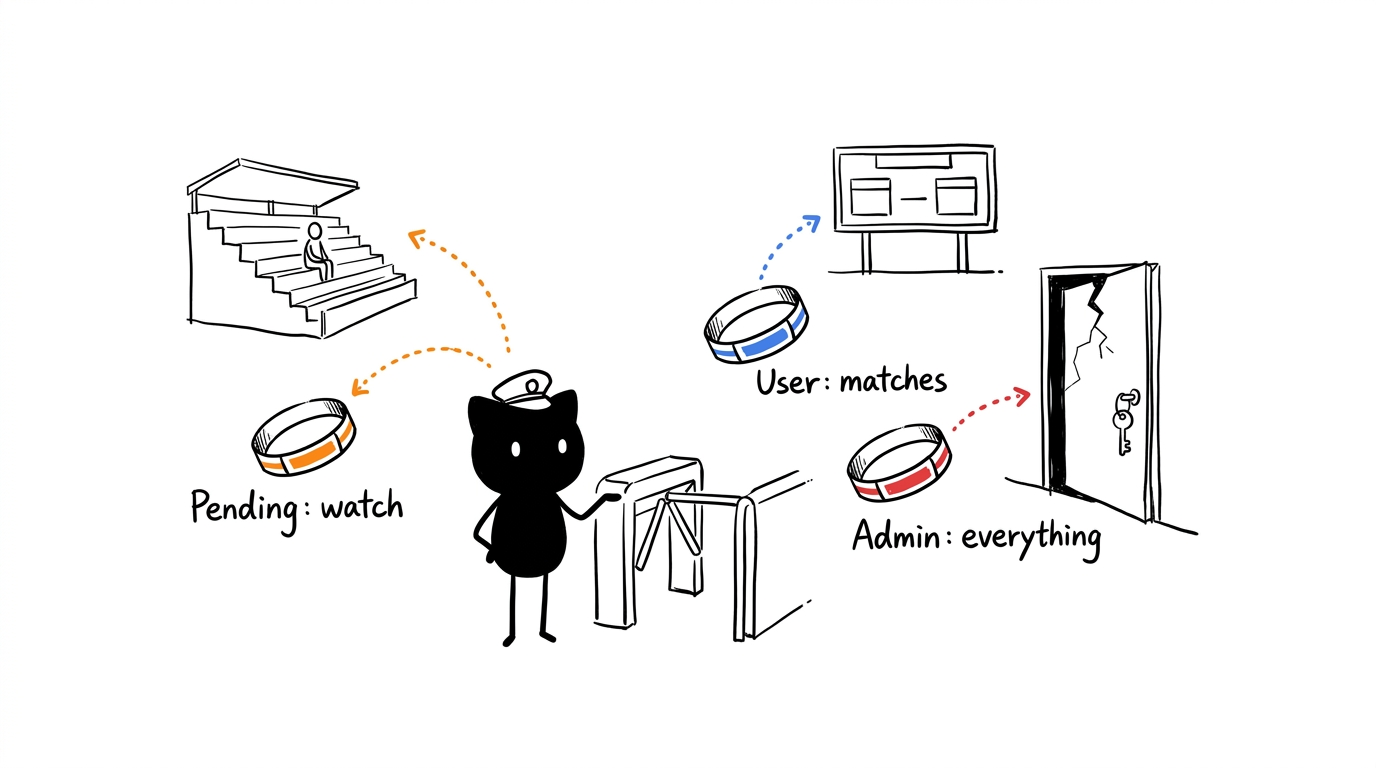
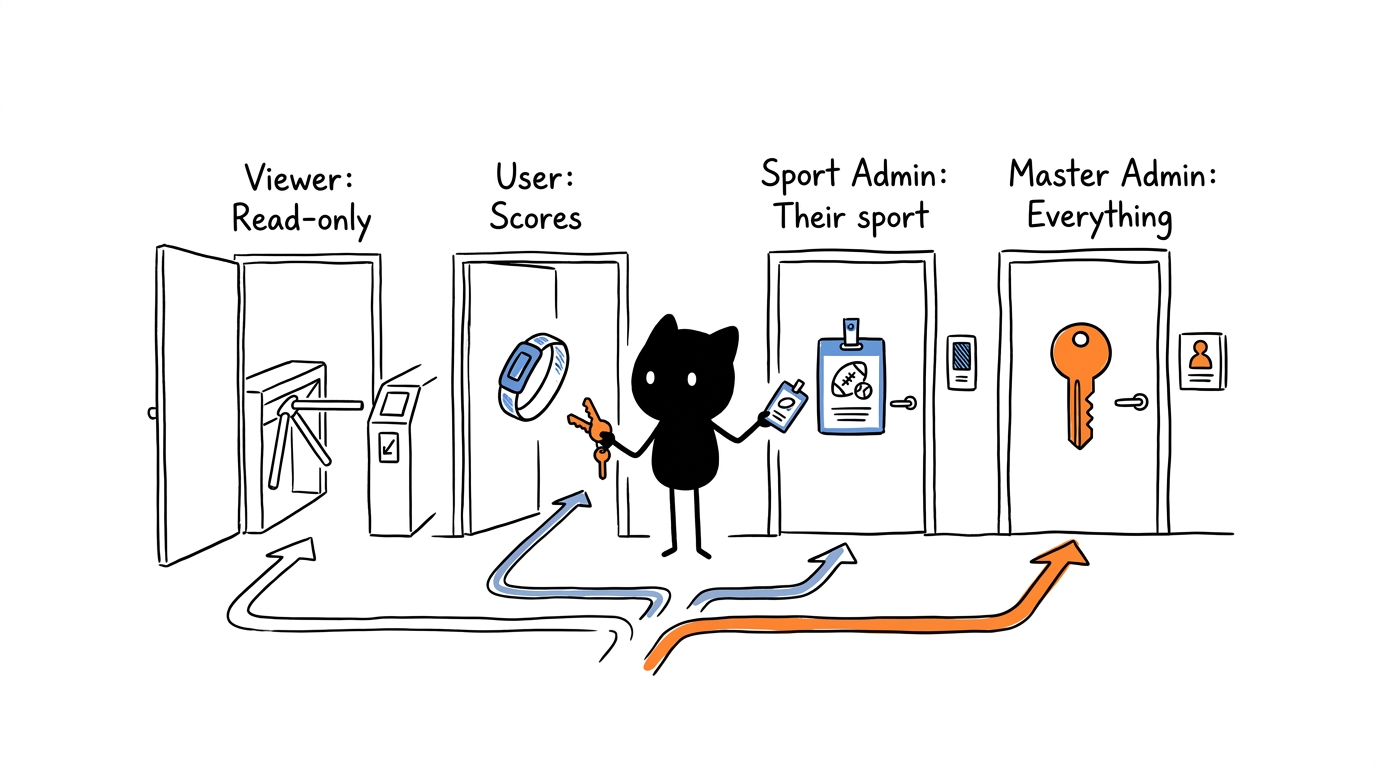
docs: illustrations and doc gaps for multi-sport app (#63)

Changed region(s): [[0.0938, 0.1875, 0.9062, 0.875]]

diff --git a/docs/guide.md b/docs/guide.md
@@ -52,6 +52,8 @@ On a phone, the header is a single line pinned to the top: on the left the tourn
 
 ## Tournaments
 
+![Multiple tournaments and device memory](assets/illustrations/18-varios-torneios.jpg)
+
 Several tournaments can run at the same time, each with its own sport, teams, schedule, results and single matches. The players database and the History are shared by all of them.
 
 - **🏆 Active Tournaments** (on the 🏠 Dashboard) lists every tournament that has not been finished. Tap a card, or **👁 View Tournament**, to follow it; the whole app then shows that tournament. Each device remembers the last tournament it viewed.
@@ -64,7 +66,10 @@ These steps are done by an **admin** of the tournament's sport (or the Master Ad
 
 1. **Players** (Manage → 👤 Players): create each player and give them 0 to 5 stars in six attributes. Each sport has its own (football: Pace, Shooting, Passing, Dribbling, Defending, Physical; padel: Volley, Smash, Lob, Wall play, Defense, Fitness; tennis: Serve, Return, Forehand, Backhand, Volley, Fitness), chosen in **Attribute Sport** in the player window; the average is the player's ★ rating for that sport. This database is shared by every tournament and by single matches.
 2. **Tournament** (🏠 Dashboard → ➕ New Tournament): create it as described in [Tournaments](#tournaments).
-3. **Settings** (⚙): set the name, the number of teams (2 to 32), the number of groups (1, 2, 4 or 8), the number of rounds, and whether there are playoffs and how many teams qualify. Football also has the scoring (points per win, draw, loss and blowout bonus); padel and tennis have the **set format** instead (sets per match, games per set, super tie-break).
+3. **Settings** (⚙): set the name, the number of teams (2 to 32), the number of groups (1, 2, 4 or 8), the number of rounds, and whether there are playoffs and how many teams qualify. The remaining cards on the Settings page adapt dynamically to the sport:
+   - **⚽ Football — 📐 Scoring card:** points for Win (default 3), Draw (1), Loss (0), Bonus (+1), and Goals scored for bonus (3).
+   - **🎾 Padel — 🔄 Pairs card:** Format (*Fixed pairs*, *Americano*, or *Mexicano*), Points per match (4–99, default 24), and the **👤 Choose players** button.
+   - **🎾 Padel & Tennis — 🎾 Set format card:** Sets per match (*1 set*, *Best of 3*, *Best of 5*), Games per set (1 to 9, default 6), and the **Super tie-break in the deciding set** checkbox (checked by default in padel; unchecked by default in tennis).
 4. **Teams** (Manage → 👥 Teams): give each team a name and a colour.
 5. **Squads** (Manage → 👕 Squads): pick the team and add players from the database, with their jersey number. The squad's average ★ is shown at the top. In padel each team is a pair: add two players to each (no jersey number), or tap **🎲 Draw pairs**, tick two players per team, and the app pairs them by padel rating and names each team after its pair (see [Rules](rules.md#pairs)). In tennis a team is one player (singles) or two (doubles), added the same way.
 6. **🔄 Generate Schedule** (⚙ Settings): creates all the rounds. With more than one group, the teams are drawn into the groups at this point.
@@ -130,9 +135,14 @@ Single matches are saved with the tournament being viewed. Their goals, assists 
 
 ## Stats, player profile and sharing
 
-![Goals, assists and MVP](assets/illustrations/11-golos-assistencias-mvp.jpg)
+![Goals, assists and MVP (football)](assets/illustrations/11-golos-assistencias-mvp.jpg)
 
-- **📊 Stats**: table of scorers, assists and MVPs of the current tournament and its single matches. In padel the cards count games (played, most won, fewest lost) and there are no scorer tables.
+*(The illustration above shows football's Stats tab with goals, assists and MVPs. Padel and tennis track games, and Americano/Mexicano track individual points.)*
+
+- **📊 Stats**: what is displayed depends on the sport:
+  - **⚽ Football:** leaderboards for Top Scorers, Top Assists, and MVPs for the current tournament and its single matches, plus stat cards (total goals, goals per match, highest score, most wins).
+  - **🎾 Padel & Tennis:** stat cards highlighting games played, games per match, most games won, fewest games lost, biggest win (by game difference), and most match wins. There are no individual scorer tables because matches are tracked game by game without player goal events.
+  - **🎾 Americano & Mexicano:** rankings and stats are strictly per individual player (points won, point difference, and matches won) rather than team pairs.
 - **🗄 History**: list of archived tournaments and an all-time table (archived tournaments, the current tournament and single matches).
 - **Player profile**: tap a player's name to see their attributes, rating, and all-time goals, assists and MVPs.
 - **Share**: the **📤** button next to the Standings title, and **📤 Share image** in the window of each finished match. The standings image uses the sport's columns (Pts in football, GW in padel); a padel result image shows the sets won with the games of each set. On a phone it opens the system share sheet (WhatsApp, etc.); on a computer it downloads the PNG image.

diff --git a/docs/rules.md b/docs/rules.md
@@ -137,6 +137,8 @@ The Stats tab adds up the current tournament and its single matches. History and
 
 ## Padel
 
+![Padel game by game](assets/illustrations/19-padel-jogo-a-jogo.jpg)
+
 Padel is scored **game by game**: no 15-30-40 points. A score is saved as the games of each set, e.g. `6-4 3-6 10-7`.
 
 ### Set format
@@ -155,6 +157,8 @@ Set per tournament in ⚙ Settings → *Set format*. Defaults are in brackets
 
 ### Standings
 
+![Super tie-break in standings](assets/illustrations/20-super-tie-break.jpg)
+
 There are no points per win. Pairs are ranked by:
 
 1. Games won (**GW**)
@@ -167,6 +171,8 @@ A super tie-break counts as **one game** for the pair that wins it (10-7 counts 
 
 ### Pairs
 
+![Draw pairs](assets/illustrations/21-sorteio-de-pares.jpg)
+
 Each team is a pair of two players, without jersey numbers. In 👕 Squads an admin can:
 
 - **Fix the pairs:** add two players to each team.
@@ -178,6 +184,10 @@ Padel records no goals, assists or MVP. The Stats tab shows games played, games 
 
 ## Americano and Mexicano
 
+![Americano partner rotation](assets/illustrations/23-americano-rotacao.jpg)
+
+![Mexicano ranking](assets/illustrations/24-mexicano-ranking.jpg)
+
 Padel formats where **partners change every round** and every player is ranked on their own. They are chosen in ⚙ Settings → *Pairs* → *Format* (Fixed pairs is the default). The logic is in `src/core/americano.ts`.
 
 - **Players:** each team is one player. The number of teams is the number of players, a multiple of 4 (4, 8, 12, …). **👤 Choose players** (same card) picks them from the database and names each team after its player.
@@ -185,9 +195,14 @@ Padel formats where **partners change every round** and every player is ranked o
 - **Americano:** the schedule has n − 1 rounds for n players, and every player partners every other player exactly once. *Number of rounds* repeats that cycle, and **➕ Add Extra Round** adds one more cycle.
 - **Mexicano:** **🔄 Generate Schedule** draws only the first round, from the padel rating: in each group of four, the 1st and 4th play the 2nd and 3rd. When every match of the round is finished, **➕ Next Mexicano Round** (Schedule) draws the next round the same way from the current standings.
 - **Standings:** per player, by points won (**PW**), then point difference (**PD**), then matches won, then alphabetical order. The table also shows points lost (**PL**) and matches played, won and lost.
+
+![Points per player](assets/illustrations/25-pontos-por-jogador.jpg)
+
 - **No playoffs:** the standings are the final ranking, and the champion is the player at the top.
 
 ## Tennis
+
+![Tennis singles and doubles](assets/illustrations/22-tenis-singulares-pares.jpg)
 
 Tennis uses the same rules as padel: scored **game by game** (no 15-30-40), saved as the games of each set, ranked by games won, with the same tiebreaks and stats. The differences:
 

diff --git a/docs/architecture.md b/docs/architecture.md
@@ -32,6 +32,8 @@ It is a single page app in TypeScript and JavaScript (ES Modules) with no framew
 
 ## Modules
 
+![Lit components in the light DOM](assets/illustrations/26-componentes-lit.jpg)
+
 | File | Role |
 |---|---|
 | `index.html` | Structure of every tab and modal. |
@@ -56,6 +58,42 @@ It is a single page app in TypeScript and JavaScript (ES Modules) with no framew
 | `database.rules.json` | Realtime Database security rules, published by the deployment. |
 | `firebase.json` | Tells the Firebase CLI where the rules are (used by the deployment). |
 | `tests/` | Vitest tests; `tests/rules/` holds the rules tests for the emulator. |
+
+## Multi-sport architecture
+
+![One class per sport](assets/illustrations/27-uma-classe-por-desporto.jpg)
+
+Every tournament belongs to one sport (`meta.sport`), which delegates scoring, standings, leaderboards, and UI panels to a sport profile class.
+
+### Adding a sport (checklist)
+
+When implementing a new sport (e.g. basketball, handball, volleyball):
+
+1. **Sport class (`src/sports/<sport>/<Sport>.ts`):**
+   - Extend `Sport` (or a base like `RacketSport`).
+   - Define `id`, `name`, `icon`, `ratingAttributes`, `standingsColumns`, `usesJerseyNumbers`.
+   - Implement `computeStandings`, `resolveHeadToHead`, `getPlayoffWinner`, `tallyPlayerStats`, and scoring methods (`addPoint`/`removePoint` or sport-specific events).
+2. **Registry (`src/sports/registry.ts`):**
+   - Register the new sport with `registerSport(sportInstance)`.
+3. **Live score component (`src/sports/<sport>/<Sport>Score.ts`):**
+   - Create custom element `<sport-score>` extending `ScoreBase`.
+   - Register it in `SCORE_PANELS` inside `src/ui/match.ts`.
+4. **Translations (`src/i18n/en.ts`):**
+   - Add rating attribute names (e.g. `en.players.<sport>Attributes`).
+   - Add live banner text, score panel buttons, and sport-specific labels.
+5. **UI & Forms (`index.html` and `src/ui/settings.ts`):**
+   - Tag sport-specific settings or squad options with `data-sport-only="<sport>"`.
+   - Update `populateConfigForm` in `src/ui/settings.ts` if the sport adds configurable scoring parameters.
+6. **Firebase Security Rules (`database.rules.json`):**
+   - Add validation rules under `tournaments/$tournamentId/results/$jogo` for the sport's score format.
+   - Update `src/permissions.ts` if new data paths are introduced.
+   - Add emulator test cases in `tests/rules/rules.check.mjs`.
+7. **Unit tests (`tests/<sport>.test.ts`):**
+   - Test standings calculation, tiebreaker chain, playoff winner determination, score formatting, and player stats tallying.
+8. **Documentation:**
+   - Add a column to `docs/sports.md`.
+   - Document rules, scoring and formats in `docs/rules.md`.
+   - Update `docs/guide.md` and `README.md`.
 
 ## Data model
 

diff --git a/docs/multi-sport.md b/docs/multi-sport.md
@@ -192,6 +192,8 @@ The phases below are the original ones. The current phases (TypeScript and `Spor
 
 ## What exists today
 
+![One class per sport](assets/illustrations/27-uma-classe-por-desporto.jpg)
+
 How the code on `main` differs from the proposal above:
 
 - **A class, not an object.** `src/sports/Sport.ts` is an abstract class with `id`, `name`, `icon` and the methods that vary (`computeStandings`, `resolveHeadToHead`, `getPlayoffWinner`, `tallyPlayerStats`, `mergePlayerStats`, `addGoal`, `removeGoal`, …). `Football` in `src/sports/football/Football.ts` implements it; `src/algorithms.ts` re-exports its methods for older modules.
@@ -202,4 +204,4 @@ How the code on `main` differs from the proposal above:
 - **Tennis.** `src/sports/tennis/Tennis.ts` reuses `RacketSport` with a full deciding set by default; singles or doubles. `<tennis-score>` and `<padel-score>` share `RacketScore`. See [Rules](rules.md#tennis).
 - **Per-sport admins.** `users/<uid>/admin/<sport>`, enforced by `database.rules.json` (see [Architecture](architecture.md#permissions)).
 - **Americano / Mexicano.** Padel tournaments can rotate partners (`config.padelFormat`); matches are played to points and players are ranked on their own (`src/core/americano.ts`, [Rules](rules.md#americano-and-mexicano)).
-- **Not done yet:** basketball, handball and volleyball, planned in [#59](https://github.com/dioogomartiins/torneio-ilog/issues/59), [#60](https://github.com/dioogomartiins/torneio-ilog/issues/60) and [#61](https://github.com/dioogomartiins/torneio-ilog/issues/61). What each sport does today is in [Sports](sports.md).
+- **Not done yet:** basketball, handball and volleyball, planned in [#59](https://github.com/dioogomartiins/sports-tournament/issues/59), [#60](https://github.com/dioogomartiins/sports-tournament/issues/60) and [#61](https://github.com/dioogomartiins/sports-tournament/issues/61). What each sport does today is in [Sports](sports.md).

diff --git a/docs/sports.md b/docs/sports.md
@@ -1,5 +1,7 @@
 # Sports
 
+![One tournament, one sport](assets/illustrations/17-desportos.jpg)
+
 Every tournament has one sport, chosen when it is created and fixed afterwards (`meta.sport`). The sport decides how a match is scored, how the standings are ranked, what the match window shows and which player ratings are used. The schedule, groups, playoffs, archive and permissions work the same for every sport.
 
 | | ⚽ Football | 🎾 Padel | 🎾 Padel Americano / Mexicano | 🎾 Tennis |
@@ -25,4 +27,4 @@ Each sport is a class in `src/sports/` registered in `src/sports/registry.ts`: `
 
 ## Planned
 
-Basketball 🏀 ([#59](https://github.com/dioogomartiins/torneio-ilog/issues/59)), handball 🤾 ([#60](https://github.com/dioogomartiins/torneio-ilog/issues/60)) and volleyball 🏐 ([#61](https://github.com/dioogomartiins/torneio-ilog/issues/61)) are planned, each with its own rules, score component and tests.
+Basketball 🏀 ([#59](https://github.com/dioogomartiins/sports-tournament/issues/59)), handball 🤾 ([#60](https://github.com/dioogomartiins/sports-tournament/issues/60)) and volleyball 🏐 ([#61](https://github.com/dioogomartiins/sports-tournament/issues/61)) are planned, each with its own rules, score component and tests.

diff --git a/README.md b/README.md
@@ -4,6 +4,8 @@ Web app for running friendly sports tournaments: teams, squads, schedule, live r
 
 Football ⚽, padel 🎾 (fixed pairs, Americano or Mexicano) and tennis 🎾 are supported today, each with its own scoring, standings and live score panel ([Sports](docs/sports.md)). The app is moving towards [supporting any sport](docs/multi-sport.md) — basketball 🏀, handball 🤾, volleyball 🏐 and others — through one class per sport.
 
+![One tournament, one sport](docs/assets/illustrations/17-desportos.jpg)
+
 **App:** <https://dioogomartiins.github.io/sports-tournament/>
 
 ## ✨ What it does
